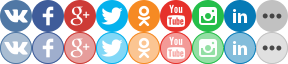
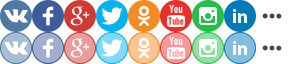
Style "More social network groups" dropdown button using palette colors

Changed region(s): [[0.875, 0.0, 1.0, 1.0]]

diff --git a/R7.Epsilon/Skins/css/skin.scss b/R7.Epsilon/Skins/css/skin.scss
@@ -305,6 +305,14 @@ header > .container > .row
     padding-top:4px;
 }
 
+@mixin dropdown-button-active ()
+{
+    $border-width:1px;
+    border:$border-width solid $color-complement-2;
+    background-color:rgba($color-complement-1, 0.5);
+    background-position:(-256px-$border-width) (-32px-$border-width);
+}
+
 ul.skin-socialgroups
 {
     text-align:right;
@@ -316,6 +324,12 @@ ul.skin-socialgroups
         display:inline; 
         list-style-type: none; 
         &:last-child a { margin-right:0; }
+    }
+
+    & > li.dropdown.open {
+        .skin-social-button.skin-social-more {
+            @include dropdown-button-active ();
+        }
     }
 
     .skin-social-button
@@ -350,8 +364,14 @@ ul.skin-socialgroups
         &.skin-social-linkedin { background-position:-224px 0; }
         &.skin-social-linkedin:hover { background-position:-224px -32px; }
 
-        &.skin-social-more { background-position:-256px 0; }
-        &.skin-social-more:hover { background-position:-256px -32px; }
+        &.skin-social-more {
+            border-radius:16px;
+            background-position:-256px 0;
+            background-color:$color-complement-1;
+            &:hover, &:active {
+                @include dropdown-button-active ();
+            }
+        }
     }
 
     ul.dropdown-menu {
